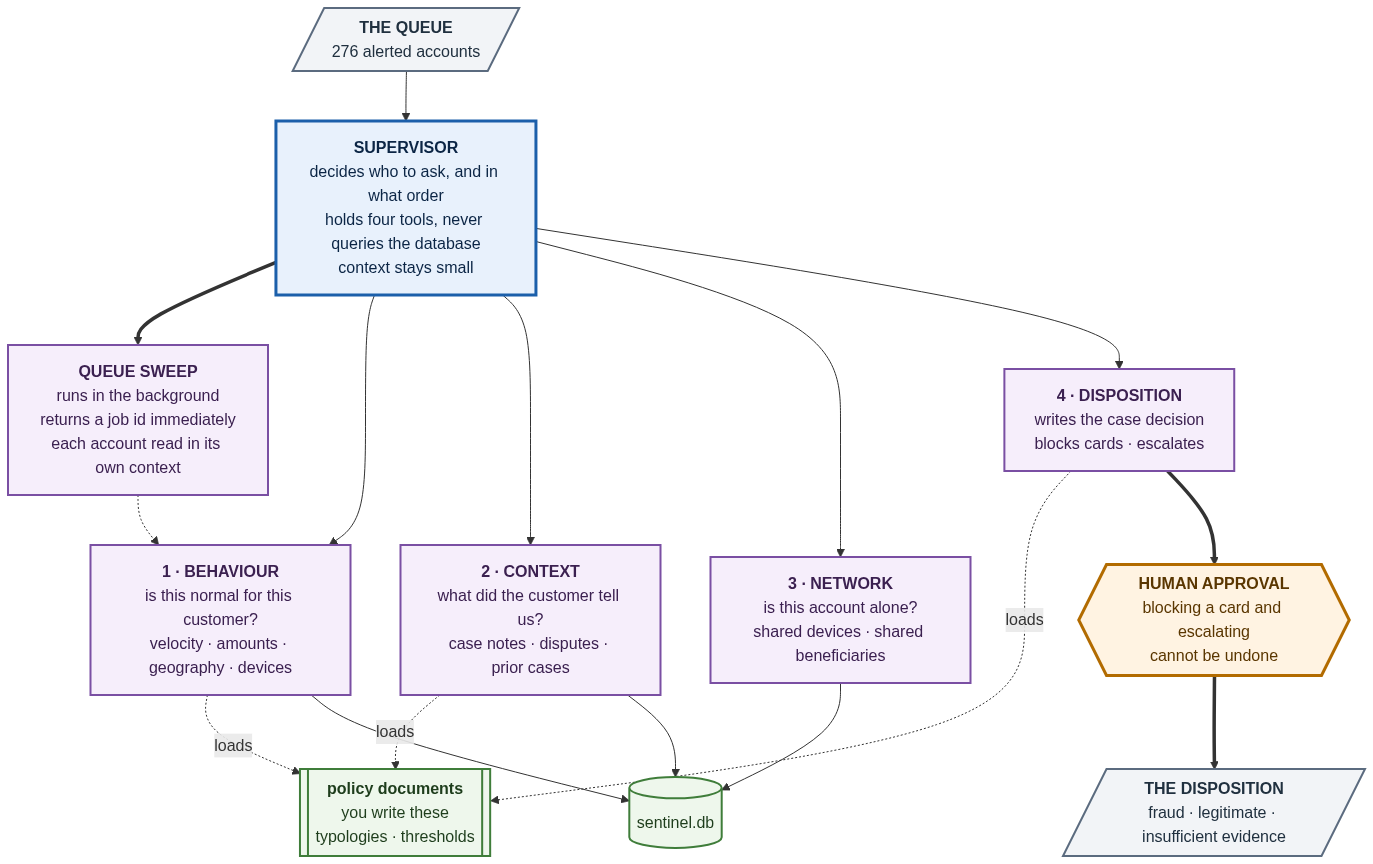
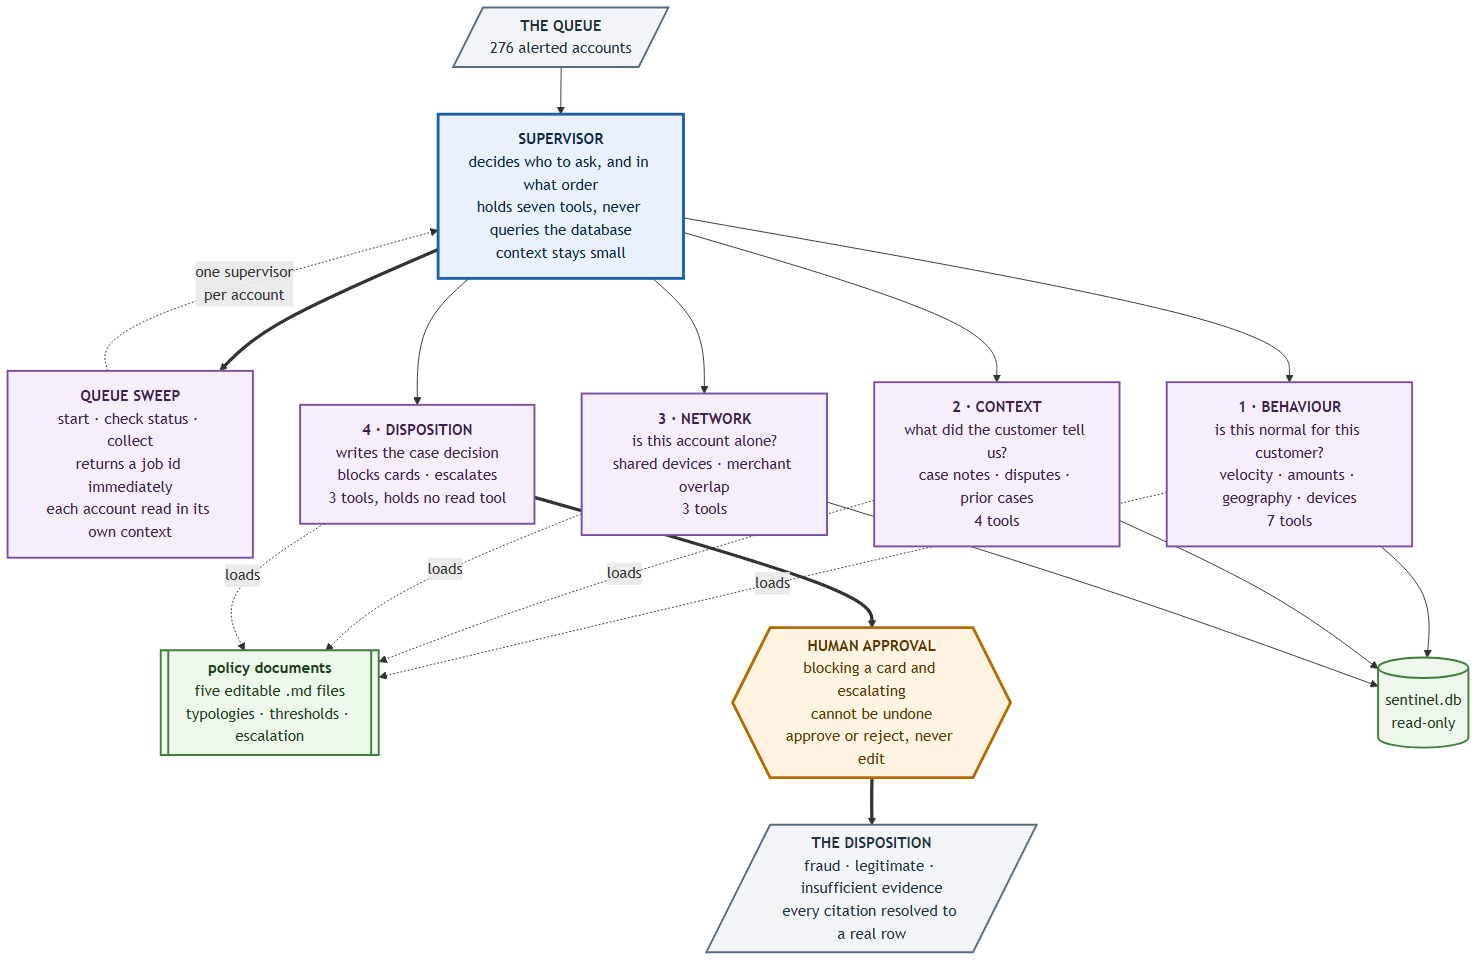
Redraw the architecture diagram to match the code

diff --git a/README.md b/README.md
@@ -57,6 +57,9 @@ sentinel sweep                           # all 276 in the background, job id imm
 
 ![architecture](docs/architecture.png)
 
+<sub>Source: [`docs/architecture.mmd`](docs/architecture.mmd). Regenerate with
+`npx @mermaid-js/mermaid-cli -i docs/architecture.mmd -o docs/architecture.png -w 1500 -b white`.</sub>
+
 ```
 Layer 3   supervisor          decides who to ask, and in what order
 Layer 2   four specialists    natural language in, natural language out
